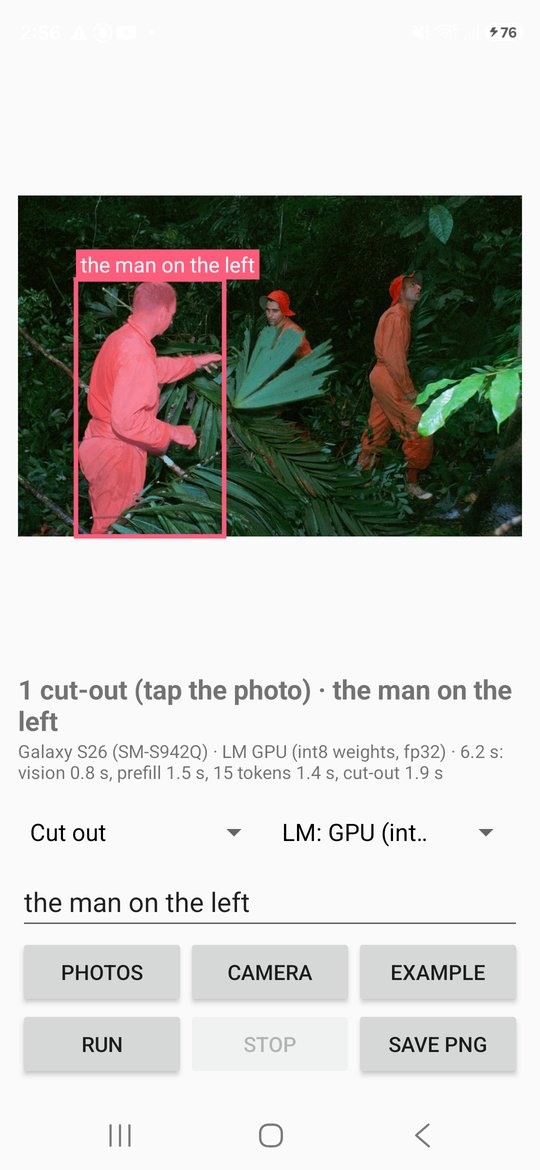
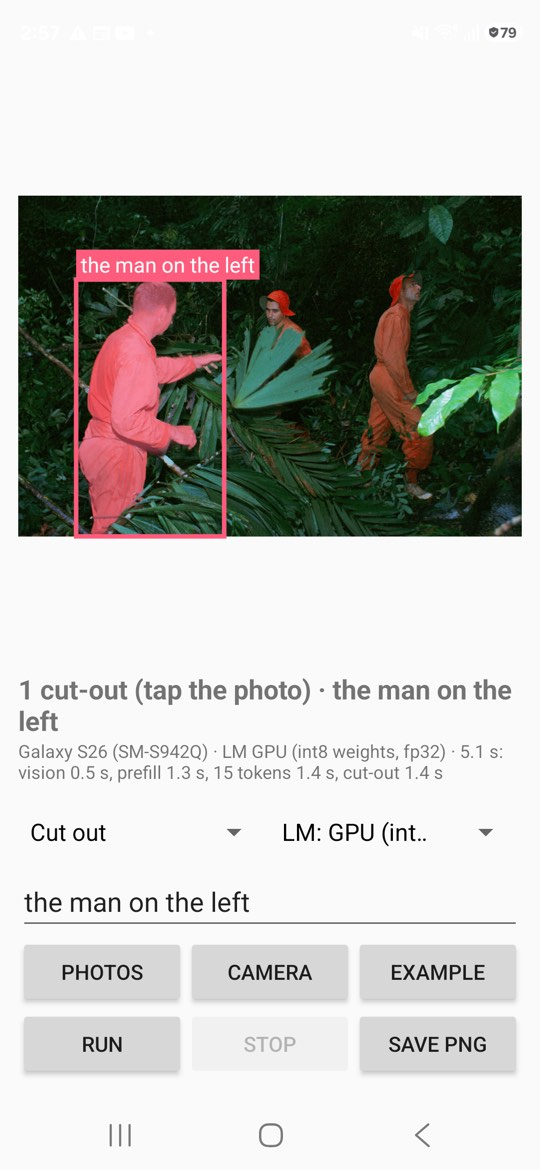
wevisone: a Stop before the model starts now ends the run, a camera photo still arrives after Android stops the app while the camera app is open, a picked photo is named by its provider, the model files come from the cutout/ folder of litert-community/WeVisOne-VL-2B (the README's hf download command

diff --git a/wevisone/app/src/main/java/com/wevisone/MainActivity.kt b/wevisone/app/src/main/java/com/wevisone/MainActivity.kt
@@ -5,6 +5,7 @@ import android.content.pm.ApplicationInfo
 import android.net.Uri
 import android.os.Build
 import android.os.Bundle
+import android.provider.OpenableColumns
 import android.util.Log
 import android.view.WindowManager
 import android.widget.AdapterView
@@ -55,17 +56,23 @@ class MainActivity : ComponentActivity() {
         private set
     private var last: Prediction? = null
     private var exampleIndex = -1
-    private var cameraFile: File? = null
     @Volatile private var busy = false
 
+    /** The Stop request of the current run: cleared when a run starts, set by Stop, read by the model thread. */
+    @Volatile private var stopRequested = false
+
     private val pickPhoto = registerForActivityResult(ActivityResultContracts.PickVisualMedia()) { uri ->
-        if (uri != null) loadPhoto { Photo.fromUri(contentResolver, uri, uri.lastPathSegment ?: "photo") }
+        if (uri != null) loadPhoto { Photo.fromUri(contentResolver, uri, displayName(uri)) }
     }
 
     private val takePhoto = registerForActivityResult(ActivityResultContracts.TakePicture()) { ok ->
-        val file = cameraFile
-        if (ok && file != null) loadPhoto { Photo.fromFile(file) }
+        // the camera app can take enough memory for Android to stop this process while it is open; the activity is
+        // then created again for the result, so the photo's path is a fixed one, not a field
+        val file = cameraFile()
+        if (ok && file.isFile) loadPhoto { Photo.fromFile(file) }
     }
+
+    private fun cameraFile() = File(File(cacheDir, "camera"), "photo.jpg")
 
     override fun onCreate(savedInstanceState: Bundle?) {
         super.onCreate(savedInstanceState)
@@ -115,15 +122,14 @@ class MainActivity : ComponentActivity() {
             pickPhoto.launch(PickVisualMediaRequest(ActivityResultContracts.PickVisualMedia.ImageOnly))
         }
         findViewById<Button>(R.id.camera).setOnClickListener {
-            val file = File(File(cacheDir, "camera").apply { mkdirs() }, "photo.jpg")
-            cameraFile = file
+            val file = cameraFile().apply { parentFile?.mkdirs() }
             takePhoto.launch(FileProvider.getUriForFile(this, "$packageName.files", file))
         }
         findViewById<Button>(R.id.example).setOnClickListener { nextExample() }
         runButton.setOnClickListener {
             run(Task.entries[taskSpinner.selectedItemPosition], queryEdit.text.toString(), null, FORMS[formSpinner.selectedItemPosition], RunOptions()) {}
         }
-        stopButton.setOnClickListener { engine?.cancelled = true }
+        stopButton.setOnClickListener { stopRequested = true }
         saveButton.setOnClickListener { saveCutout() }
         statusText.text = "${DeviceInfo.displayName()} · LiteRT ${BuildConfig.LITERT_VERSION}"
         handleIntent(intent)
@@ -143,6 +149,14 @@ class MainActivity : ComponentActivity() {
     private fun isDebuggable() = applicationInfo.flags and ApplicationInfo.FLAG_DEBUGGABLE != 0
 
     // ----------------------------------------------------------------------------------------------------- inputs
+    /** The picked photo's file name from the provider (the photo picker's URI ends in a MediaStore id). */
+    private fun displayName(uri: Uri): String =
+        runCatching {
+            contentResolver.query(uri, arrayOf(OpenableColumns.DISPLAY_NAME), null, null, null)?.use { c ->
+                if (c.moveToFirst()) c.getString(0) else null
+            }
+        }.getOrNull() ?: uri.lastPathSegment ?: "photo"
+
     private fun loadPhoto(decode: () -> Photo) {
         if (busy) return
         answerText.text = "Opening the photo"
@@ -208,6 +222,7 @@ class MainActivity : ComponentActivity() {
         }
         val text = instruction ?: Prompts.instruction(task, query)
         busy = true
+        stopRequested = false
         runButton.isEnabled = false
         stopButton.isEnabled = true
         saveButton.isEnabled = false
@@ -254,6 +269,7 @@ class MainActivity : ComponentActivity() {
         lastPrep["file_check_ms"] = (System.nanoTime() - t) / 1e6
         saveVerified()
         if (problems.isNotEmpty()) throw MissingFilesException(problems)
+        if (stopRequested) throw CancelledException()
         t = System.nanoTime()
         val tok = tokenizer ?: QwenBpeTokenizer.fromFile(File(dir, ModelFiles.TOKENIZER.name)).also {
             tokenizer = it
@@ -267,7 +283,9 @@ class MainActivity : ComponentActivity() {
             e = WeVisOneEngine(dir, cacheDir, tok, box, form, options)
             engine = e
         }
-        return e.predict(p.rgb, p.width, p.height, instruction) { stage -> runOnUiThread { answerText.text = stage } }
+        return e.predict(p.rgb, p.width, p.height, instruction, { stopRequested }) { stage ->
+            runOnUiThread { answerText.text = stage }
+        }
     }
 
     private fun finish(outcome: Outcome, task: Task?, done: (Outcome) -> Unit) {

diff --git a/wevisone/app/src/main/java/com/wevisone/WeVisOneEngine.kt b/wevisone/app/src/main/java/com/wevisone/WeVisOneEngine.kt
@@ -116,7 +116,12 @@ class WeVisOneEngine(
     private val table: ShortBuffer
     private val tableChannel: FileChannel
 
-    @Volatile var cancelled = false
+    /** The current run's Stop request, read between stages and between tokens (set by [predict]). */
+    private var stopRequested: () -> Boolean = { false }
+
+    private fun checkStop() {
+        if (stopRequested()) throw CancelledException()
+    }
 
     init {
         val file = File(modelDir, ModelFiles.EMBEDDINGS.name)
@@ -130,8 +135,13 @@ class WeVisOneEngine(
         fun stage(text: String)
     }
 
-    fun predict(rgb: ByteArray, width: Int, height: Int, instruction: String, progress: Progress): Prediction {
-        cancelled = false
+    /**
+     * [stop] is the caller's Stop request for this run: it is read, never reset, so a Stop pressed before this call
+     * (while the files were checked or the graphs built) still ends the run.
+     */
+    fun predict(rgb: ByteArray, width: Int, height: Int, instruction: String, stop: () -> Boolean, progress: Progress): Prediction {
+        stopRequested = stop
+        checkStop()
         val timing = LinkedHashMap<String, Any?>()
         val memory = ArrayList<Map<String, Any?>>()
         val t0 = System.nanoTime()
@@ -157,6 +167,7 @@ class WeVisOneEngine(
         val x512 = FloatArray(u8.size) { (u8[it].toInt() and 0xFF) * INV_255 }
         timing["resize_512_ms"] = ms(t)
         val (enc, ada) = visionGraphs(memory)
+        checkStop()
         progress.stage("Vision encoder")
         t = System.nanoTime()
         val encIn = enc.createInputBuffer("args_0", "serving_default")
@@ -186,10 +197,11 @@ class WeVisOneEngine(
         }
         timing["vision_adapter_ms"] = ms(t)
         check(imageRows.size == N_IMAGE * WIDTH) { "adapter output ${imageRows.size}" }
-        if (cancelled) throw CancelledException()
+        checkStop()
 
         // 3-5. decoder
         val dec = decoderGraph(memory)
+        checkStop()
         progress.stage("Answering")
         val gen = dec.generate(promptIds, imageRows, MAX_NEW, timing) { n -> progress.stage("Answering: $n tokens") }
         val response = tokenizer.decode(gen.newIds)
@@ -222,7 +234,7 @@ class WeVisOneEngine(
                 for (k in 0 until 4) inputs.getValue(names[k]).writeFloat(taps[k])
                 inputs.getValue("args_6").writeFloat(canvas)
                 for (i in 0 until count) {
-                    if (cancelled) throw CancelledException()
+                    checkStop()
                     val bins = answer.segBoxes[i]
                     val box = BoxFeatures.normalized(bins)
                     val tSeg = gen.objHidden[i]
@@ -536,7 +548,7 @@ class WeVisOneEngine(
                 stepMs.add(ms(t))
                 if (fed == OBJ && newIds.isNotEmpty()) objHidden.add(hidden)
                 if (newIds.size >= maxNew) break
-                if (cancelled) {
+                if (stopRequested()) {
                     stopped = true
                     break
                 }

diff --git a/wevisone/README.md b/wevisone/README.md
@@ -8,17 +8,19 @@ Pick a photo and type a word: the phone draws the box around that thing and cuts
 
 | Phone | Photo + words → cut-out | Steps | Memory |
 |---|---|---|---|
-| Galaxy S26 (12 GB), GPU | **4.5 s** (640 × 480 photo), 6.1 s (3000 × 2029 photo) | vision encoder 0.53 s, adapter 0.05 s, prompt 296 tokens 1.15 s, answer 13 tokens 1.17 s (90 ms a token), matte decoder 1.40 s, matte to photo size 0.04 s | all three graphs loaded: free memory 6.9 → 1.6 GB, app peak 6.1 GB |
-| Galaxy S26, first run after install | 42.5 s | building the graphs: vision 9.0 s, language model 25.7 s, matte decoder 2.2 s | |
+| Galaxy S26 (12 GB), GPU | **4.7 s** (640 × 480 synthetic picture), 5.8 s (3000 × 2029 photo) | vision encoder 0.54 s, adapter 0.06 s, prompt 296 tokens 1.17 s, answer 13 tokens 1.19 s (91 ms a token), matte decoder 1.57 s, matte to photo size 0.04 s | all three graphs loaded: free memory 6.6 → 1.6 GB, app peak 6.1 GB |
+| Galaxy S26, first run after install | 35.7 s | building the graphs: vision 8.6 s, language model 20.3 s, matte decoder 1.6 s | |
 | Pixel 8a (8 GB) | does not run | the app stops before loading anything: 3.3 GB free, 4.1 GB needed (an earlier build that checked one stage at a time started the vision graphs, and they alone took the free memory from 3.0 to 0.3 GB on this phone's GPU) | |
 
-Galaxy S26 SM-S942Q (Android 16), LiteRT 2.3.0, 2026-10-25: the median of four runs after the first, every graph on the GPU (OpenCL); the language model with int8 weights and float32 arithmetic (`GPU (int8 weights, fp32)`, the app's default). Memory is in GB of 2^30 bytes, the unit of the app's messages. With fp16 weights the language model takes 4.5 GB instead of 3.0 GB, the vision graphs no longer fit beside it and are rebuilt for every photo: 15.7 s per cut-out (measured with an earlier build of the app, the same graphs). On the CPU (XNNPACK unpacks the fp16 weights to float32) the app refuses the language model on a Galaxy S26 (8.7 GB needed, 7.3 GB free); with the check turned off it gives the reference's answer token for token but takes 132 s, 5.4 s a token, while the phone swaps.
+Galaxy S26 SM-S942Q (Android 16), LiteRT 2.3.0, 2026-10-25: the median of four runs after the first, every graph on the GPU (OpenCL); the language model with int8 weights and float32 arithmetic (`GPU (int8 weights, fp32)`, the app's default). Memory is in GB of 2^30 bytes, the unit of the app's messages. With fp16 weights the language model takes 4.5 GB instead of 3.0 GB, the vision graphs no longer fit beside it and are rebuilt for every photo: 15.7 s per cut-out. On the CPU (XNNPACK unpacks the fp16 weights to float32) the app refuses the language model on a Galaxy S26 (8.7 GB needed, 7.3 GB free); with the check turned off it gives the reference's answer token for token but takes 132 s, 5.4 s a token, while the phone swaps. The fp16 number was measured with an earlier build of the app (the same graphs), the CPU and Pixel 8a numbers with the first version of this sample; the app's model code is unchanged since, and only the Stop button, the name shown for a picked photo and the way the app finds the camera's photo again after Android has restarted it changed.
 
 ## Use
 
-1. Build and install the app (below), then copy the model files to the phone: `./scripts/install_to_device.sh <dir with the files>` (the int8 language model by default, `FORM=fp16` the fp16 one, `FORM=both` both; the script also downloads three NASA example photos unless `EXAMPLES=0`).
-2. Open **WeVisOne Cut-out**. Choose a photo (**Photos**, **Camera**, or **Example**, which also fills in a task and words), pick a task, type the words, tap **Run**.
-3. Boxes, points and labels appear on the photo; a cut-out is tinted. Tap the photo to see the cut-out alone on a checkerboard, **Save PNG** writes it with its transparency to `Pictures/WeVisOne`.
+1. Build and install the debug build of the app (below).
+2. Download the model files (Files, below).
+3. Copy them to the phone: `./scripts/install_to_device.sh`. It reads `~/Downloads/WeVisOne-VL-2B-LiteRT/cutout` unless you give another directory, installs the int8 language model (`FORM=fp16` the fp16 one, `FORM=both` both), and downloads three NASA example photos unless `EXAMPLES=0`.
+4. Open **WeVisOne Cut-out**. Choose a photo (**Photos**, **Camera**, or **Example**, which also fills in a task and words), pick a task, type the words, tap **Run**.
+5. Boxes, points and labels appear on the photo; a cut-out is tinted. Tap the photo to see the cut-out alone on a checkerboard, **Save PNG** writes it with its transparency to `Pictures/WeVisOne`.
 
 | Task | Type | The instruction the model gets (the authors' `build_prompt`) |
 |---|---|---|
@@ -50,7 +52,18 @@ Graphs stay loaded while there is memory for them: before each stage the app rea
 
 ## Files
 
-files: <the download location is set when the files are published>
+The files are in the [`cutout/`](https://huggingface.co/litert-community/WeVisOne-VL-2B/tree/main/cutout) folder of [litert-community/WeVisOne-VL-2B](https://huggingface.co/litert-community/WeVisOne-VL-2B); the `.litertlm` file at the top of that repository is the LiteRT-LM build of the model (boxes, points, counts and text, no cut-outs) and is not used by this app. The default install (the int8 language model, 3,257,599,697 bytes):
+
+```bash
+export HF_HUB_DISABLE_XET=1
+hf download litert-community/WeVisOne-VL-2B \
+  cutout/tokenizer.json cutout/wevisone_embed_tokens_fp16.bin \
+  cutout/wevisone_vision_encoder_512_fp16.tflite cutout/wevisone_vision_adapter_512_fp16.tflite \
+  cutout/wevisone_mask_decoder_gs16.tflite cutout/wevisone_decoder_b_int8.tflite \
+  --local-dir "$HOME/Downloads/WeVisOne-VL-2B-LiteRT"
+```
+
+Add `cutout/wevisone_decoder_b_fp16.tflite` to the list for `FORM=fp16` or `FORM=both`.
 
 | File | Bytes | SHA-256 |
 |---|---|---|

diff --git a/README.md b/README.md
@@ -118,7 +118,7 @@ This repository is the model zoo for that path: **91 converted models** (as of 2
 | [clef-flash](#clef-flash-typed-decisions-desktop) | Typed decisions: yes-no / choice / score questions about a text, a JSON value or a photo, every question answered at once with a probability for every option | Apple M4 Max (Mac, Metal float32) | a 236-token request in 360.7 ms, a 1,007-token request in 1,346.9 ms, a request with one photo (448 px tile, 688 tokens) in 1,493.8 ms | [🤗 HF](https://huggingface.co/litert-community/clef-flash-LiteRT) |
 | [Phocinae-Largha-150M](#phocinae-largha-150m-typed-decisions) | Typed decisions: choice / score / yes-no questions about a text, calibrated probabilities (EN / ZH) | Galaxy S26 | 19.8 ms per question at 384 tokens (NPU), 22.9 ms (GPU FP16); a 3-question request in 114 ms (NPU, the editor) | [🤗 HF](https://huggingface.co/litert-community/Phocinae-Largha-150M-LiteRT) |
 | [Timestral-209M](timestral/) | Time-series forecasting: 21 quantiles for up to 1,024 steps of your own series (univariate, context up to 8,192 steps); weights: Mistral AI Modified MIT License (condition 2: no rights if the company's or employer's monthly revenue exceeds $20 million) | Galaxy S26 | 21.1 ms per forecast (NPU), 30.8 ms (GPU FP16), 57.5 ms (CPU int8, 4 threads): a 120-value series, 300-step horizon, median of 10 forecasts in the sample app's debug build | [🤗 HF](https://huggingface.co/mlboydaisuke/Timestral-209M-LiteRT) |
-| [WeVisOne-VL-2B](wevisone/) | Cut out what you name in a photo (alpha matte, transparent PNG), plus detection, pointing, counting and reading text, from one 2B vision-language model | Galaxy S26 | 4.5 s per photo and word to the cut-out (GPU) | pending |
+| [WeVisOne-VL-2B](wevisone/) | Cut out what you name in a photo (alpha matte, transparent PNG), plus detection, pointing, counting and reading text, from one 2B vision-language model | Galaxy S26 | 4.7 s (a 640 × 480 picture) and 5.8 s (a 3000 × 2029 photo) from the picture and words to the cut-out (GPU) | [🤗 HF](https://huggingface.co/litert-community/WeVisOne-VL-2B) |
 | [Falcon3-3B-Instruct](#falcon3-3b-instruct) | LLM chat (LiteRT-LM) | iPhone 17 Pro | ~27 tok/s | [🤗 HF](https://huggingface.co/mlboydaisuke/Falcon3-3B-Instruct-LiteRT) |
 | [Llama-3.2-3B-Instruct](#llama-32-3b-instruct) | LLM chat (LiteRT-LM) | iPhone 17 Pro | ~18.5 tok/s | [🤗 HF](https://huggingface.co/mlboydaisuke/Llama-3.2-3B-Instruct-LiteRT) |
 | [Ministral-3-3B-Instruct-2512](#ministral-3-3b-instruct-2512) | LLM chat (LiteRT-LM) | iPhone 17 Pro | ~17.6 tok/s | [🤗 HF](https://huggingface.co/mlboydaisuke/Ministral-3-3B-Instruct-2512-LiteRT) |
@@ -2594,6 +2594,6 @@ Built with Llama. [meta-llama/Llama-3.2-3B-Instruct](https://huggingface.co/meta
 
 # License
 
-MIT (sample apps; `kev/`, `julia1/`, `d1-3b/` and `clef-flash/` carry their own Apache-2.0 `LICENSE`, and `d1omni/` the LFM Open License v1.0, as it ports the model provider's code). Model licenses follow their original projects.
+MIT (sample apps; `kev/`, `julia1/`, `d1-3b/`, `clef-flash/` and `wevisone/` carry their own Apache-2.0 `LICENSE`, and `d1omni/` the LFM Open License v1.0, as it ports the model provider's code). Model licenses follow their original projects.
 
 
